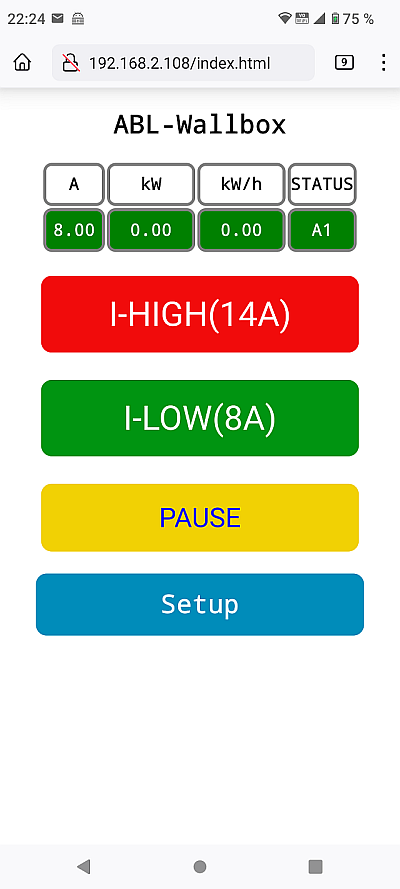
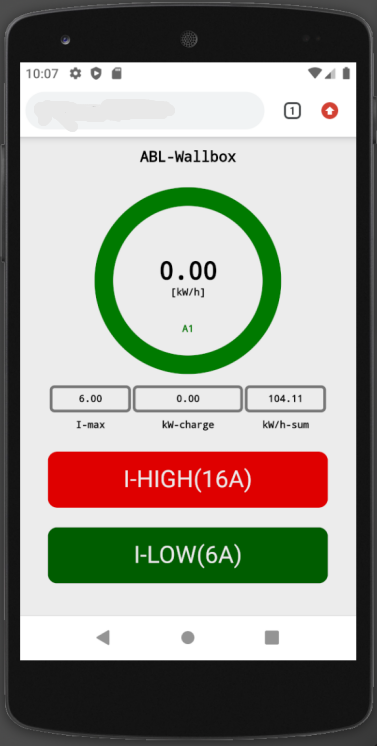
changes in index page

diff --git a/data/index.html b/data/index.html
@@ -14,27 +14,24 @@
         <meta name="mobile-web-app-capable" content="yes">
         <meta name="theme-color" content="#ffffff">
     </head>
-
     <body >
-       
       <h2>%DEVICEID%</h2>
-      <div class="outer" id="RING_ID">
-       <div class="inner"></div>
-       <div id="ABL_KWH_ISTRING"class="ringtext_wert">0.00</div>
-       <div class="ringtext_einheit">[kW/h]</div>
+      <div class="outerring" id="RING_ID">
+       <div class="innerring"></div>
+       <div id="ABL_KWH_IST"class="ringtext_value">---</div>
+       <div class="ringtext_unit">[kW/h]</div>
+       <div class="ringtext_status" id="ABL_STATUS">--</div>
      </div>
          <table>
             <tr>
-              <th>A</th>
-              <th>kW</th>
-           
-              <th>STATUS</th>
-            </tr>
-            <tr>
               <td class="mywidth" id="ABL_A_SOLL">--</td>
               <td id="ABL_KW_IST">--</td>
-          
-              <td class="mynoblink" id="ABL_STATUS">--</td>
+              <td class="mywidth" id="ABL_KWH_SUM">--</td>
+            </tr>
+            <tr>
+              <th>I-max</th>
+              <th>kW-charge</th>
+              <th>kW/h-sum</th>
             </tr>
          </table>
          </p>
@@ -59,62 +56,47 @@
               //myResponse = myResponse.toUpperCase();
               //console.log(this.responseText);
               var myArray = myResponse.split(",");
-              
+            
               //console.log(myArray);
-        
-              document.getElementById('ABL_A_SOLL').innerHTML  = myArray[0];
-              document.getElementById('ABL_KW_IST').innerHTML  = myArray[1];
-              document.getElementById('ABL_STATUS').innerHTML  = myArray[2];
-              document.getElementById('ABL_KWH_ISTRING').innerHTML = myArray[3];
-              
+              if (myArray[1] != null)
+              {
+               document.getElementById('ABL_A_SOLL').innerHTML  = myArray[0];
+               document.getElementById('ABL_KW_IST').innerHTML  = myArray[1];
+               document.getElementById('ABL_STATUS').innerHTML  = myArray[2];
+               document.getElementById('ABL_KWH_IST').innerHTML = myArray[3];
+               document.getElementById('ABL_KWH_SUM').innerHTML = (myArray[4]/1000);
+              }
                // Beispiel : https://code-boxx.com/change-override-css-with-javascript
               if (myArray[2] == "A1") 
               {
-                document.getElementById('ABL_STATUS').style.background = 'green';
-                document.getElementById('ABL_STATUS').className = "mynoblink";
-                //document.getElementById('ABL_STATUS').className = "myblink"; // for test
-                document.getElementById('ABL_A_SOLL').style.background = 'green';
-                document.getElementById('ABL_KW_IST').style.background = 'green';
+                document.getElementById('ABL_STATUS').style.color = 'green';
+                document.getElementById('RING_ID').className = "outerring_blink";
                 document.getElementById('RING_ID').style.background = 'green';
                 document.getElementById("BUTTON_PAUSE").style.visibility= 'hidden';
               }
               else if ((myArray[2] == "B1") || (myArray[2] == "B2"))
               {
-                document.getElementById('ABL_STATUS').style.background = 'yellow';
-                document.getElementById('ABL_STATUS').className = "myblink"; 
-                document.getElementById('ABL_A_SOLL').style.background = 'yellow';
-                document.getElementById('ABL_KW_IST').style.background = 'yellow';
                 document.getElementById('RING_ID').style.background = 'yellow';
                 document.getElementById("BUTTON_PAUSE").style.visibility= 'hidden';
                 
               }
               else if (myArray[2] == "C2")
               {
-                document.getElementById('ABL_STATUS').style.background = 'blue';
-                document.getElementById('ABL_STATUS').className = "myblink";
-                document.getElementById('ABL_A_SOLL').style.background = 'blue';
-                document.getElementById('ABL_KW_IST').style.background = 'blue';
-                document.getElementById('RING_ID').style.background = 'blue';
+                document.getElementById('ABL_STATUS').style.color = 'aqua';
+                document.getElementById('RING_ID').className = "outerring_blink";
+                document.getElementById('RING_ID').style.background = 'aqua';
                 document.getElementById("BUTTON_PAUSE").style.visibility= 'visible';
               }
               else if (myArray[2] == "noCom")
               {
-                document.getElementById('ABL_STATUS').style.background = 'red';
-                document.getElementById('ABL_STATUS').className = "myblink";
-                document.getElementById('ABL_A_SOLL').style.background = 'red';
-                document.getElementById('ABL_KW_IST').style.background = 'red';
+                document.getElementById('ABL_STATUS').style.color = 'red';
                 document.getElementById('RING_ID').style.background = 'red';
                 document.getElementById("BUTTON_PAUSE").style.visibility= 'hidden';
               }
               else
               {
-                document.getElementById('ABL_STATUS').style.background = 'black';
-                document.getElementById('ABL_STATUS').className = "myblink";
-                document.getElementById('ABL_A_SOLL').style.background = 'black';
-                document.getElementById('ABL_KW_IST').style.background = 'black';
-                //document.getElementById('ABL_KWH_IST').style.background = 'black';
+                document.getElementById('ABL_STATUS').style.color = 'black';
                 document.getElementById('RING_ID').style.background = 'black';
-                //document.getElementByID('RING_ID').className = 'outer_black';
                 document.getElementById("BUTTON_PAUSE").style.visibility= 'hidden';
               }
             }

diff --git a/data/style.css b/data/style.css
@@ -15,25 +15,8 @@ body{ font-weight: bold;}
 }
 
 
-.status_blue
-{
-  background-color: blue;
-  color: white;
-}
-.status_green
-{
-  background-color: green;
-  color: white;
-}
-
-.status_red
-{
-  background-color: #008CBA;
-  color: white;
-}
-
 .buttongreen {
-  background-color: hsl(127, 100%, 29%);
+  background-color: darkgreen;
   display: inline-block;
   width: 300px;
   padding: 15px 20px;
@@ -61,7 +44,7 @@ body{ font-weight: bold;}
 
 
 .buttonblue {
-  background-color: #008CBA;
+  background-color: #36afbf;
   display: inline-block;
   width: 300px;
   padding: 15px 20px;
@@ -103,7 +86,7 @@ body{ font-weight: bold;}
 }
 
 .mywidth {
-  width: 20%;
+  width: 30%;
 }
 
 .container {
@@ -131,16 +114,20 @@ table{ margin-left: auto;
   margin-right: auto;
   width: 300px;}
 
-th, td {
+th {
   font-size: 1rem;
   border-radius: 0.5rem;
   padding: 0.5rem 0rem;
-  border: 3px solid gray;
+  /*border: 3px solid gray; */
 }
 
 td{
-  background-color: black;
-  color: white;
+  background-color: white;
+  color: black;
+  font-size: 1rem;
+  border-radius: 0.5rem;
+  padding: 0.5rem 0rem;
+  border: 3px solid gray; 
 }
 
 textarea{
@@ -148,29 +135,26 @@ textarea{
   height:25em;}
 
 .myblink {
-  width: 20%;
+  width: 33%; 
   animation: blinkingBackground 2s infinite;
 }
 .mynoblink {
-  width: 20%;
+  width: 30%; 
   animation: none;
 }
 
-
-.outer{
+.outerring {
   display: inline-block;
   width: 200px;
   height: 200px;
   border-radius: 50%;
   position: relative;
-  background-color: green;
+  background-color: black;
   margin: 10px;
   cursor:pointer;
-  animation: blinkingBackground 2s infinite;
 }
 
-
-.outer_black{
+.outerring_blink {
   display: inline-block;
   width: 200px;
   height: 200px;
@@ -180,10 +164,9 @@ textarea{
   margin: 10px;
   cursor:pointer;
   animation: blinkingBackground 2s infinite;
-}
+  }
 
-
-.inner {
+.innerring {
   position: absolute;
   width: 80%;
   height: 80%;
@@ -193,21 +176,26 @@ textarea{
   left: 50%;
   transform: translate(-50%, -50%);
   transition: all 0.1s ease-out;
-
 }
 
-
-.ringtext_wert {
-  font-size: 2rem;
+.ringtext_value {
+  font-size: 2.5rem;
   position: relative;
-  top: 30%;
+  top: 38%;
   text-align: center;
 }
 
 
-.ringtext_einheit {
+.ringtext_unit {
   position: relative;
-  top: 35%;
+  top: 38%;
+  text-align: center;
+}
+
+
+.ringtext_status {
+  position: relative;
+  top: 51%;
   text-align: center;
 }
 
@@ -217,6 +205,7 @@ textarea{
   height: 80%;
 
 }
+
 
 @keyframes blinkingBackground {
     50% {

diff --git a/data/config.html b/data/config.html
@@ -18,7 +18,7 @@
    <form action="config.html" method="POST">
      <p>CONFIG-DATA</p>
      <textarea autocorrect="off" name="saveconfig">%CONFIG%</textarea>
-     <p><button class="buttonblue" type="submit">Setup-save</button></p>
+     <p><button class="buttonlink" type="submit">Setup-save</button></p>
    </form>
    
    <p><a class="buttonlink" href="config.txt" download>Setup-download</a></p>

diff --git a/data/ota.html b/data/ota.html
@@ -21,8 +21,10 @@
   <input class='buttonred' type='submit' name="startupdate" value='START-UPLOAD'><BR>
   
 </form>
+</p>
 <a class="buttonlink" href="reboot.html">REBOOT!</a>
-<a class="buttonlink" href="index.html">Main-Menue</a>
+</p>
+<a class="buttonlink" href="setup.html">back</a>
 
 </body>
 </html>

diff --git a/data/log.html b/data/log.html
@@ -18,7 +18,7 @@
   </p>
   <button class="buttonlink" id="add"  onclick="toggleScroll()">scroll on/off </button>
   </p>
-  <a class="buttonlink" href="index.html">back</a>
+  <a class="buttonlink" href="setup.html">back</a>
 
 <script>
   var stopscroll=false;

diff --git a/src/main.cpp b/src/main.cpp
@@ -1018,7 +1018,7 @@ void loop()
         //if (ABL_rx_status.startsWith("A")) // for test without EV
         if ((ABL_rx_status.startsWith("C")) && (ABL_rx_kW > 0))
         {
-         //ABL_rx_kWh = ABL_rx_kWh + ( 10.0    /(3600/(ABL_pollPeriod/1000))); // for test without EV
+         //ABL_rx_kWh = ABL_rx_kWh + ( 10.0    /(3600/(varStore.varABL_i_Scantime_ms/1000))); // for test without EV
         
         ABL_rx_kWh = ABL_rx_kWh + (ABL_rx_kW/(3600/(varStore.varABL_i_Scantime_ms/1000)));
         debug_print("kWh: ");
@@ -1028,6 +1028,7 @@ void loop()
         if (ABL_rx_status.startsWith("no"))
         {
           ABL_rx_kW = 0;
+          ABL_PollTime_old = now + 10000;
         }
 
         setLED(1);
